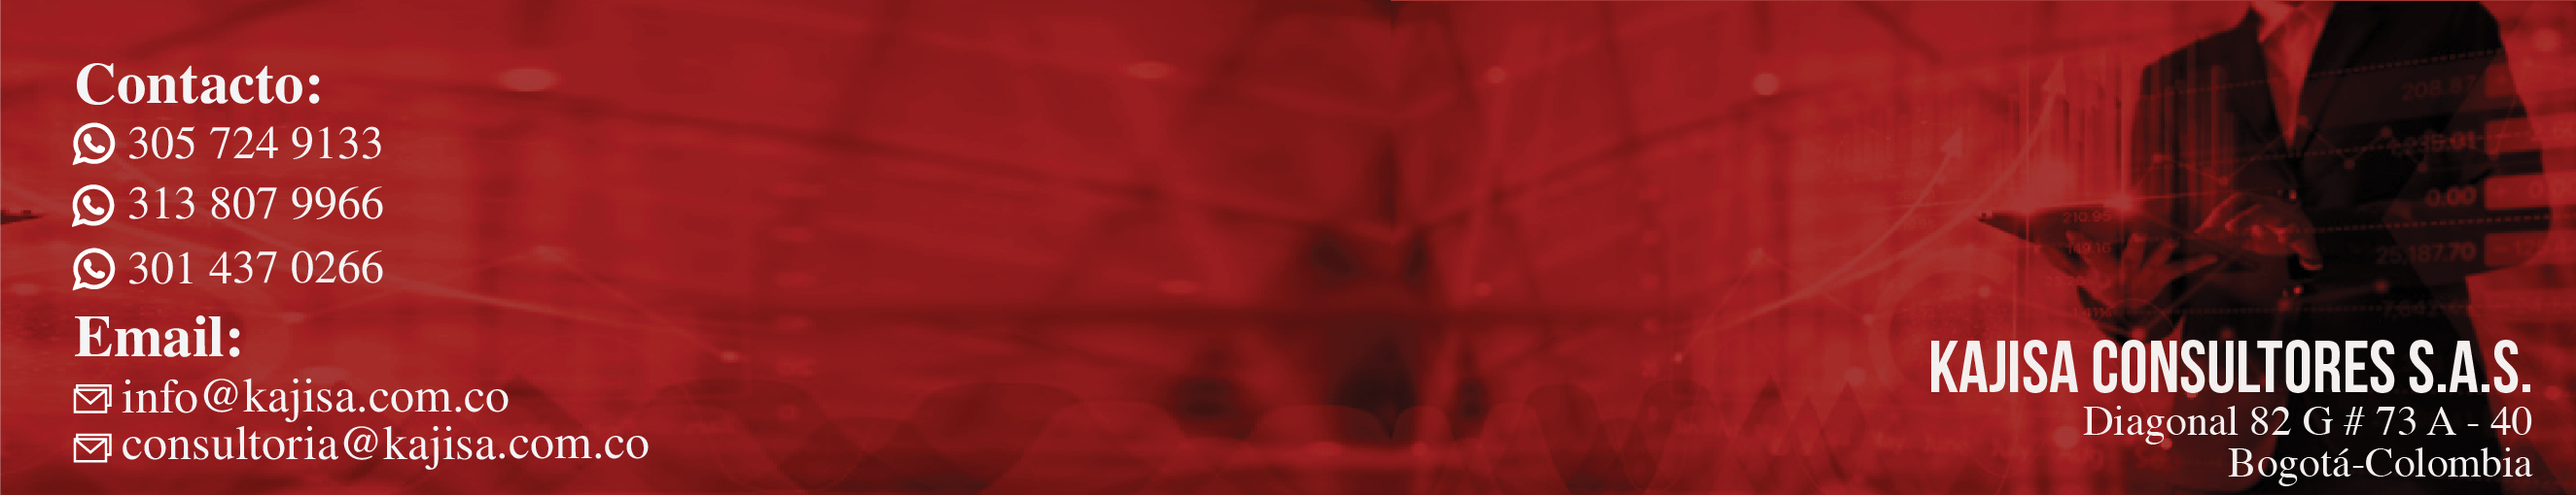
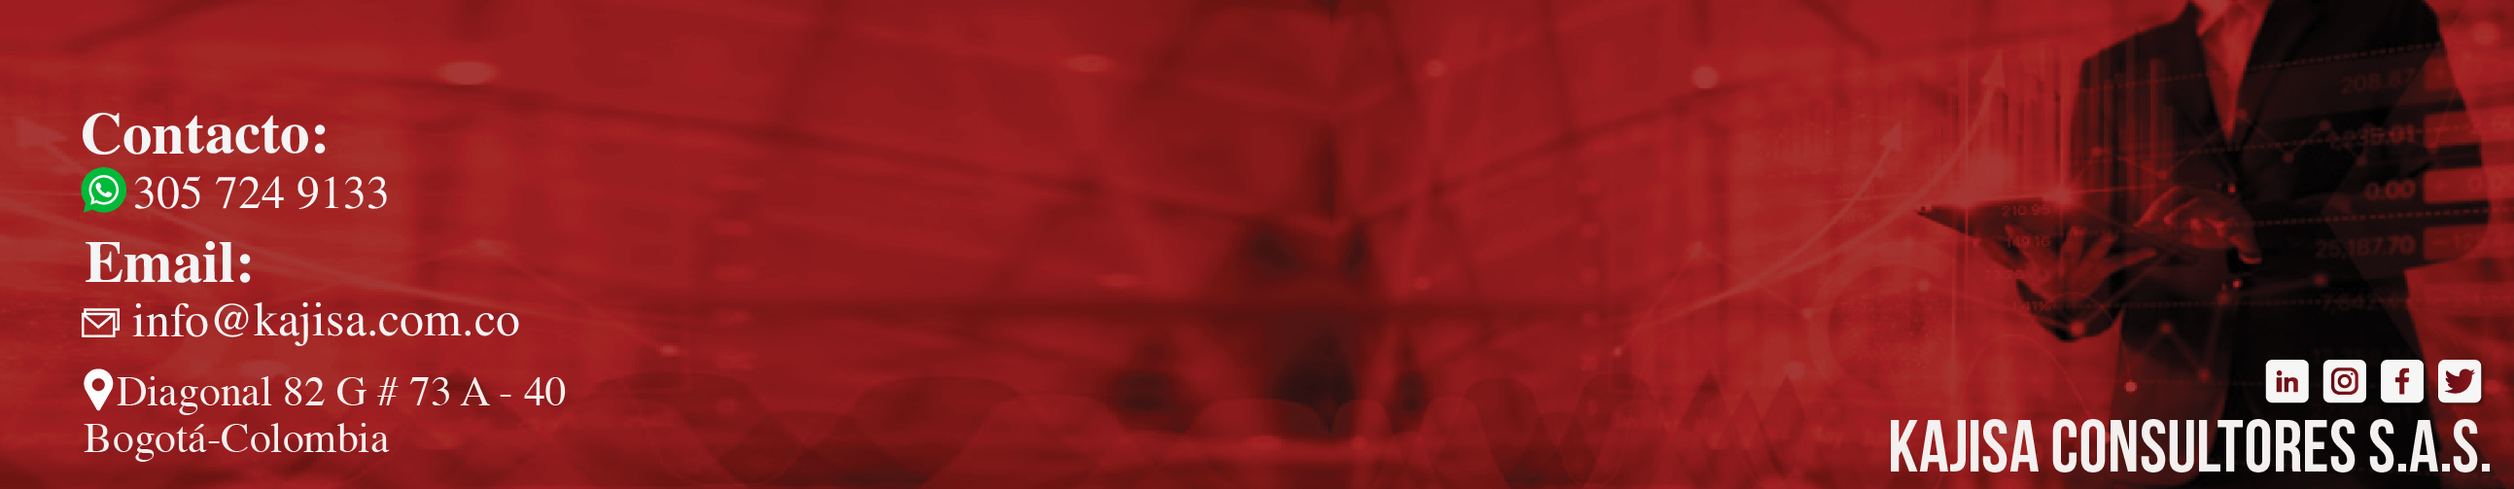
Update whit new picture. Fix the footer size for mobiles

diff --git a/src/components/home/Content1Home.vue b/src/components/home/Content1Home.vue
@@ -5,25 +5,40 @@
       <li data-target="#carouselExampleIndicators" data-slide-to="0" class="active"></li>
       <li data-target="#carouselExampleIndicators" data-slide-to="1"></li>
       <li data-target="#carouselExampleIndicators" data-slide-to="2"></li>
+      <li data-target="#carouselExampleIndicators" data-slide-to="3"></li>
+      <li data-target="#carouselExampleIndicators" data-slide-to="4"></li>
+      <li data-target="#carouselExampleIndicators" data-slide-to="5"></li>
+      <li data-target="#carouselExampleIndicators" data-slide-to="6"></li>
     </ol>
     <div class="carousel-inner">
       <div class="carousel-item active">
-        <img src="@/assets/publicidad/pub1.jpg" class="d-block w-100" alt="First slide">
+        <img src="@/assets/publicidad/pub7.jpg" class="d-block w-100" alt="First slide">
+        <div class="carousel-caption d-none d-md-block">
+          <label style="background-color: #8d0d0d; opacity:0.7;">
+            Hoy en el cumpleaños 482 de Bogotá, queremos agradecer
+            y comprometer nuestros esfuerzos para seguir continuando con el aporte social
+            que realiza el  equipo de kajisa Consultores con la prestación de nuestros
+            servicios
+          </label>
+        </div>
       </div>
       <div class="carousel-item">
-        <img src="@/assets/publicidad/pub2.jpg" class="d-block w-100" alt="Second slide">
-      </div>
-      <div class="carousel-item">
-        <img src="@/assets/publicidad/pub3.jpg" class="d-block w-100" alt="Third slide">
-      </div>
-      <div class="carousel-item">
-        <img src="@/assets/publicidad/pub4.jpg" class="d-block w-100" alt="Third slide">
+        <img src="@/assets/publicidad/pub4.jpg" class="d-block w-100" alt="Second slide">
       </div>
       <div class="carousel-item">
         <img src="@/assets/publicidad/pub5.jpg" class="d-block w-100" alt="Third slide">
       </div>
       <div class="carousel-item">
-        <img src="@/assets/publicidad/pub6.jpg" class="d-block w-100" alt="Third slide">
+        <img src="@/assets/publicidad/pub6.jpg" class="d-block w-100" alt="Fourth slide">
+      </div>
+      <div class="carousel-item">
+        <img src="@/assets/publicidad/pub1.jpg" class="d-block w-100" alt="Fifth slide">
+      </div>
+      <div class="carousel-item">
+        <img src="@/assets/publicidad/pub2.jpg" class="d-block w-100" alt="Sixth slide">
+      </div>
+      <div class="carousel-item">
+        <img src="@/assets/publicidad/pub3.jpg" class="d-block w-100" alt="Seventh slide">
       </div>
     </div>
     <a class="carousel-control-prev" href="#carouselExampleIndicators" role="button"

diff --git a/src/components/footer/Down.vue b/src/components/footer/Down.vue
@@ -1,12 +1,23 @@
 <template>
   <footer class="page-footer extend font-small blue pt-4">
-    <img class="footsize" src="@/assets/footer/Footer.jpg" style="width: 100%; height: 200px">
+    <img v-if="sizescreen()" class="footsize" src="@/assets/footer/Footer.jpg" style="width: 100%;
+    height: 200px">
+    <img v-else class="footsize" src="@/assets/footer/Footer2.jpg" style="width: 100%;
+    height: 100px">
   </footer>
 </template>
 
 <script>
 export default {
   name: 'Down',
+  methods: {
+    sizescreen() {
+      if (window.screen.availWidth > 720) {
+        return true;
+      }
+      return false;
+    },
+  },
 };
 </script>
 

diff --git a/public/index.html b/public/index.html
@@ -4,7 +4,7 @@
     <meta charset="utf-8">
     <meta http-equiv="X-UA-Compatible" content="IE=edge">
     <meta name="viewport" content="width=device-width, initial-scale=1, shrink-to-fit=no">
-    <link rel="icon" href="<%= BASE_URL %>kajisaicon.ico">
+    <link rel="icon" href="<%= BASE_URL %>favicon.ico">
     <title>Kajisa</title>
     <link rel="stylesheet" href="https://stackpath.bootstrapcdn.com/bootstrap/4.5.0/css/bootstrap.min.css"
           integrity="sha384-9aIt2nRpC12Uk9gS9baDl411NQApFmC26EwAOH8WgZl5MYYxFfc+NcPb1dKGj7Sk" crossorigin="anonymous">

diff --git a/src/main.js b/src/main.js
@@ -1,4 +1,5 @@
 import Vue from 'vue';
+import VueYouTubeEmbed from 'vue-youtube-embed';
 import * as firebase from 'firebase/app';
 import * as VueGoogleMaps from 'vue2-google-maps';
 import App from './App.vue';
@@ -14,6 +15,8 @@ const fb = firebase.initializeApp(firebaseConfig);
 Vue.fb = Vue.prototype.$fb = fb;
 
 Vue.config.productionTip = false;
+
+Vue.use(VueYouTubeEmbed, { global: true, componentId: 'youtube-media' });
 
 Vue.use(VueGoogleMaps, {
   load: {

diff --git a/src/components/styles.css b/src/components/styles.css
@@ -7,7 +7,7 @@
     max-width: 100%;
     height: 200px;
 }
-p {
+.p {
     font: small-caps 100%/200% serif;
     color: darkred;
 }
